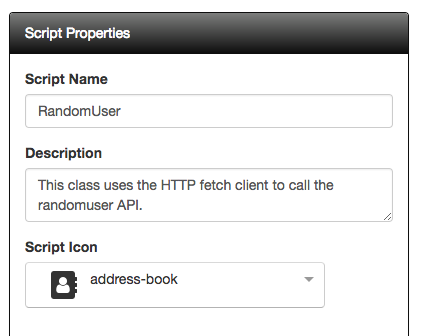
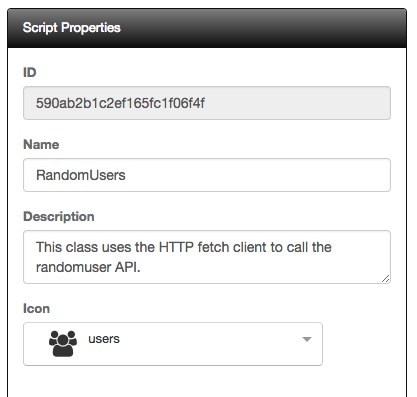
Working on randomuser-screen.

diff --git a/docs/tutorials/randomuser-screen.md b/docs/tutorials/randomuser-screen.md
@@ -14,7 +14,7 @@ Let's get started.
 
 ```javascript
 @inject(HttpFetchClient)
-class RandomUser {
+class RandomUsers {
   constructor(http) {
     this.http = http;
     this.baseUrl = `https://randomuser.me/`;
@@ -66,7 +66,7 @@ class RandomUser {
 
 11) Clicking save will navigate you to the designer.
 
-12) Under the *Settings* tab, select the `RandomUser` script under the Screen Scripts section.
+12) Under the *Settings* tab, select the `RandomUsers` script under the Screen Scripts section.
 
 13) We are now ready to start building our layout. There is only a single element that we will use.
 
